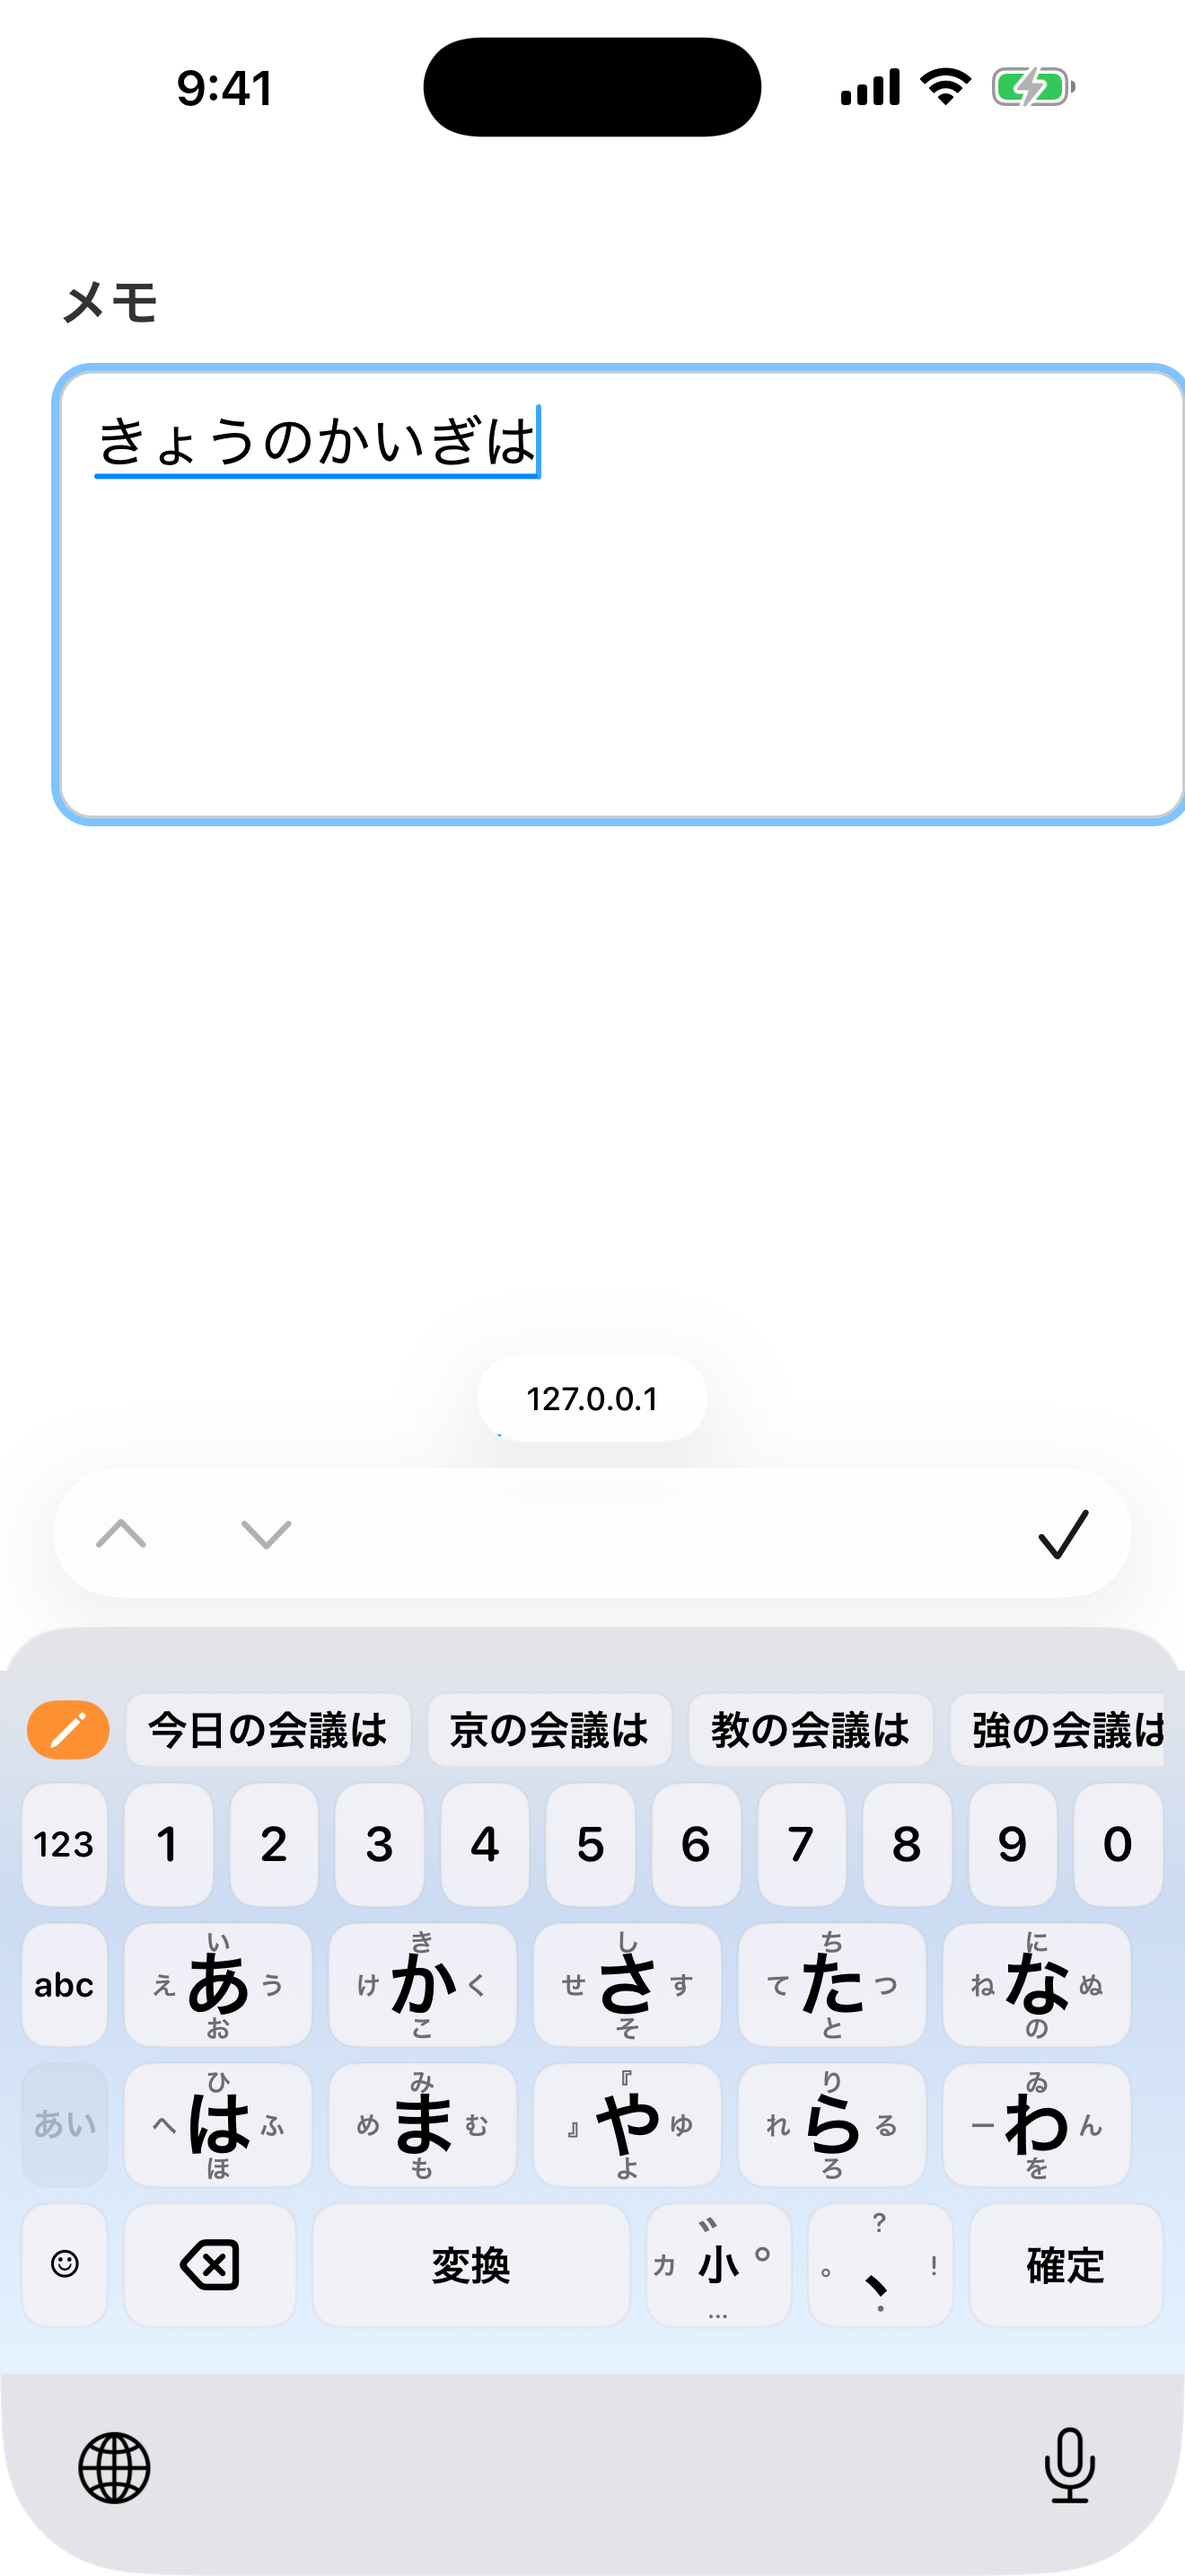
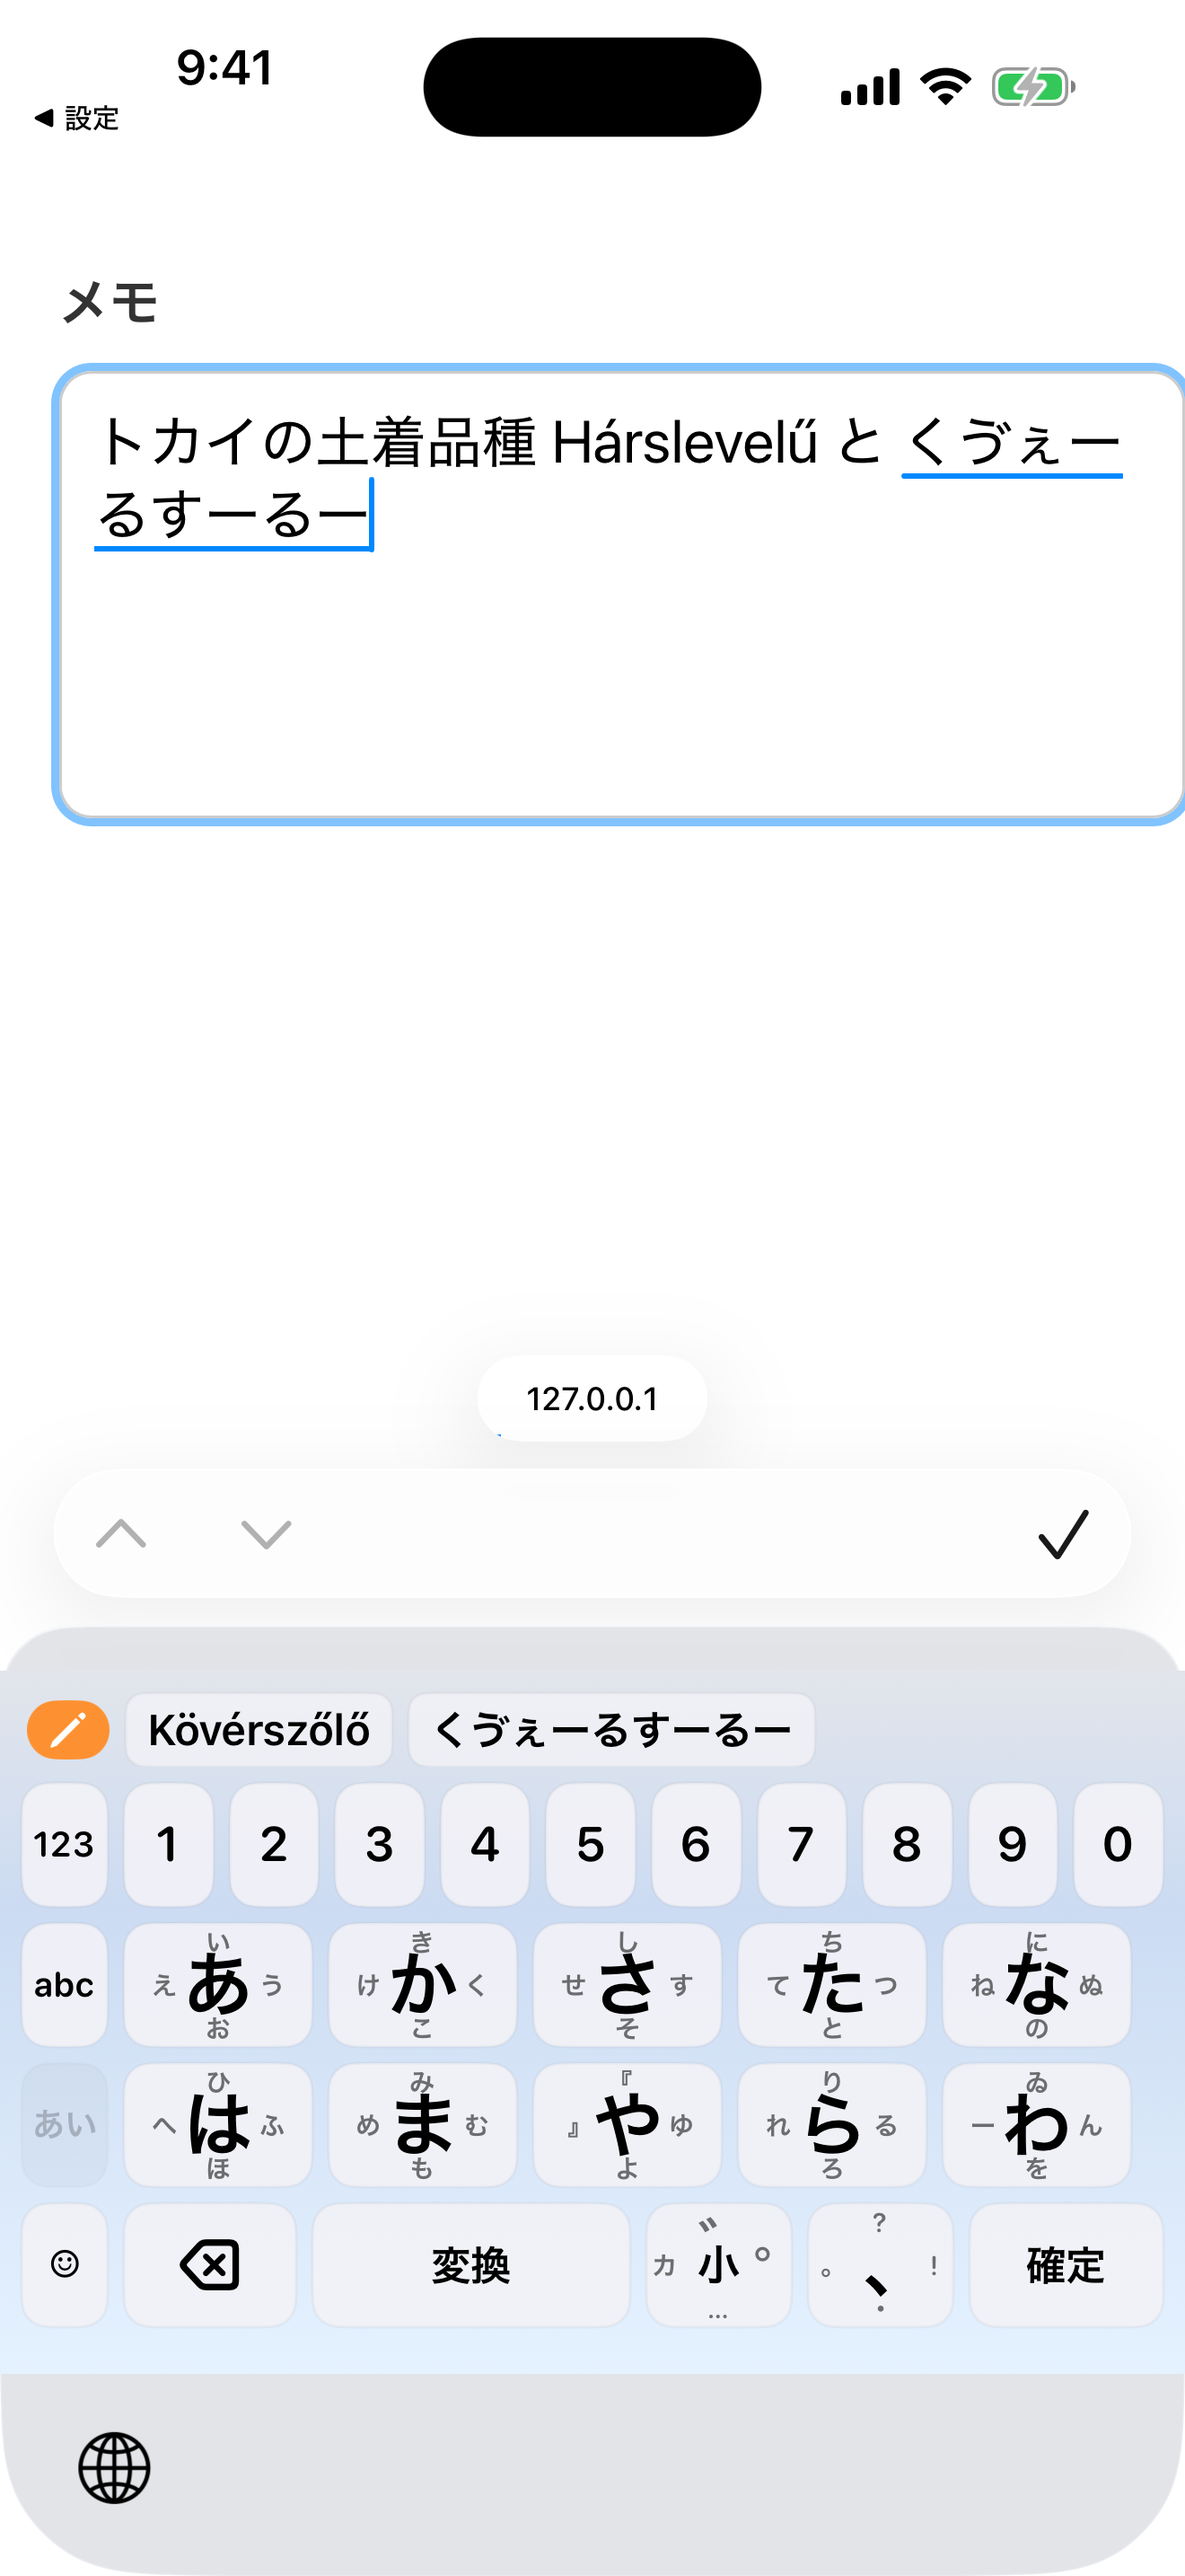
docs(appstore): スクリーンショット01-03をマイク非表示・ワイン例文で撮り直し
- 音声入力はécrituを通らずホストへ入るため、誤解を招くマイクを消して再撮影
- 例文をトカイの土着品種に変更し、アクサン記号つき語と連文節候補を同時に見せる
- 国旗はKövérszőlőがハンガリー側トカイのみの品種のため🇫🇷から🇭🇺へ
- 04・05は未撮り直し。05は単位の場面に変更する旨を計画に記載

diff --git a/appstore/screenshots-plan.md b/appstore/screenshots-plan.md
@@ -36,7 +36,26 @@
   - `05-number-calendar.png` 書式化数値カレンダー(9月17日) / `06-settings.png` アクセント/テーマカラー
 - テキスト素材は `appstore/metadata.md` に完成済み
 
-## 撮り直し案(保留中 — 依頼があったら実施)
+## 撮り直し(take 2) — 進行中
+
+- **済**: 01 / 02 / 03(2026-09-01。マイク非表示・ワイン例文・国旗はハンガリー)
+- **未**: 04(顔文字検索)/ 05(書式化数値)— まだ take 1 のまま(マイク写り込み・旧例文)
+- **05 は場面変更**: カレンダーではなく**単位**にする。本文は
+  「フランスの年間のワイン生産量は、フランス農務省の2025年11月1日時点予測値で約36,200,000 hℓ」で、
+  数値を書式化数値モードで組み立てている場面を撮る。
+  手順: hPaカテゴリー → 接頭辞 h + 単位 ℓ → `36200000` を入力 → sep mil と espace をオン
+  → プレビューが `36,200,000 hℓ` になった状態。桁区切り・接頭辞・単位が1枚に収まる。
+  - **撮影時だけ設定「リットルの記号」を ℓ にする**(製品の初期設定は l)
+  - 「3,620万hℓ」と書けないのは、`万` が書式化数値モードの出力に無く、
+    モード内で一度に組み立てられないため。桁区切りを見せる意図なので算用数字で通す
+  - 数値はユーザー提供。公開前に出典と数字を再確認すること
+- 06 は設定アプリ画面なので撮り直し対象外
+- 国旗は🇫🇷でなく🇭🇺(Hongrie)。Kövérszőlő はハンガリー側トカイのみの品種で、
+  スロヴァキア側トカイの認定品種(Furmint / Lipovina / 黄マスカット)には含まれないため
+- 撮影中の注意: キーボード拡張が白画面のまま固まることがある。simctl shutdown → boot で復旧する
+  (本文はシミュレータのペーストボードに入れておき、長押し→ペーストで復元すると速い)
+
+## 撮り直し案(実施メモ)
 
 - 下端バーのマイクを消す: シミュレータの 設定 > 一般 > キーボード > 音声入力オフ(06は設定アプリ画面なので対象外)
 - 例文をワインの説明文に変更し、écrituの個性(ワイン語彙+フランス語)を見せる:
